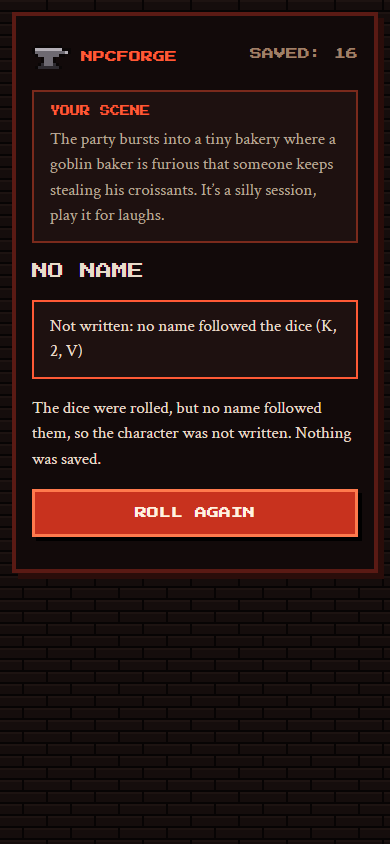
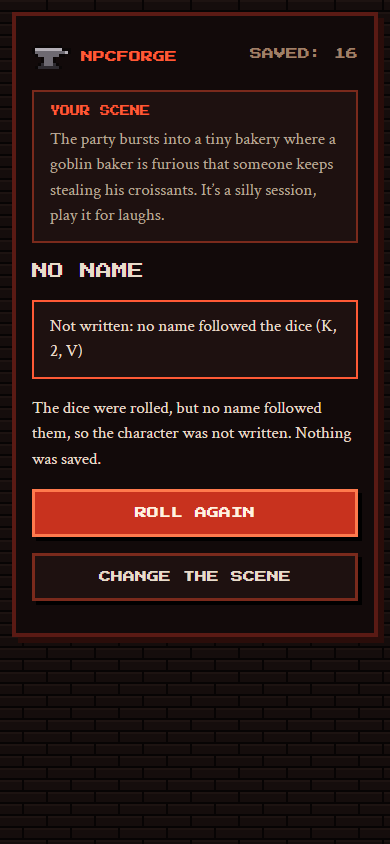
fix(web): a state with no drawing fails tsc, and the data test holds each sheet whole (epic 12, PR 3)
Review showed a new `ForgeState` case with no `case` in the switch passed
`tsc` and drew a blank page. `draw` and `SavedPage` now return
`ReactElement`, so a missing case is a compile error.

The data test passed with a sheet's first lines cut off. It now anchors
the sheet's start in the run file and ties it to the name the run gave.

The no-name screen gains CHANGE THE SCENE, and the confirmation says
where its buttons are.

Changed region(s): [[0.0308, 0.6469, 0.9846, 0.7701]]

diff --git a/NpcForge.Web/tests/flow.spec.ts b/NpcForge.Web/tests/flow.spec.ts
@@ -12,8 +12,13 @@ const runFile = readFileSync(
 test('each made-up sheet is the bakery run file, byte for byte', () => {
   expect(bakeryCharacters).toHaveLength(3);
   for (const { name, sheet } of bakeryCharacters) {
-    // Whole lines, from the sheet's first heading to the line before the console's keep question.
-    expect(runFile.includes(`\n${sheet}\nKeep this character?`), `${name}'s sheet is in the run file`).toBe(true);
+    // The whole sheet: from the line after the writer's last `[loop] ... out` trace line to the
+    // line before the console's keep question.
+    const at = runFile.indexOf(` out\n${sheet}\nKeep this character?`);
+    expect(at, `${name}'s sheet is in the run file, whole`).toBeGreaterThan(-1);
+    // The last name the run accepted before this sheet is this character's name.
+    const named = runFile.slice(runFile.lastIndexOf('[app] name ', at));
+    expect(named.startsWith(`[app] name ${name} (`), `the run named this sheet's character ${name}`).toBe(true);
   }
 });
 
@@ -111,6 +116,14 @@ test('an answer to the question leads to the confirmation', async ({ page }) => 
   await page.getByRole('button', { name: 'ANSWER' }).click();
   await expect(page.getByText('Here is the character so far. Nothing is rolled until you say yes.')).toBeVisible();
   await expectContrast(page);
+});
+
+test('after no name, change the scene puts it back in the box', async ({ page }) => {
+  await page.goto('/?state=forge-no-name');
+  const shown = await page.getByRole('region', { name: 'Your scene' }).getByRole('paragraph').innerText();
+  await page.getByRole('button', { name: 'CHANGE THE SCENE' }).click();
+  await expect(page.getByRole('textbox', { name: /^Describe the scene/ })).toHaveValue(shown);
+  await expect(page.getByRole('button', { name: 'SEND THE SCENE' })).toBeEnabled();
 });
 
 test('after no name, roll again writes a character', async ({ page }) => {

diff --git a/NpcForge.Web/src/ForgePage.tsx b/NpcForge.Web/src/ForgePage.tsx
@@ -1,4 +1,4 @@
-import { useEffect, useRef, useState, type ReactNode } from 'react';
+import { useEffect, useRef, useState, type ReactElement } from 'react';
 import {
   answer,
   rollAndWrite,
@@ -95,7 +95,9 @@ export function ForgePage({
     setState({ kind: 'saved', scene, interview, number });
   }
 
-  function draw(): ReactNode {
+  // The return type has no `undefined` in it, so a state with no case here fails tsc and cannot
+  // ship as a blank page (ADR-017, "Outcomes as values").
+  function draw(): ReactElement {
     switch (state.kind) {
       case 'describe':
       case 'turned-down':
@@ -151,6 +153,7 @@ export function ForgePage({
             <ScenePanel scene={scene} />
             <h1 className="page-title">THE BRIEF SO FAR</h1>
             <p>Here is the character so far. Nothing is rolled until you say yes.</p>
+            <p className="hint">Roll it or turn it down at the end of the brief.</p>
             <Confirmation fields={state.fields} />
             <p className="ask">Roll this character?</p>
             <div className="actions">
@@ -221,6 +224,9 @@ export function ForgePage({
             <div className="actions">
               <button className="button button-main" type="button" onClick={() => roll(scene, interview)}>
                 ROLL AGAIN
+              </button>
+              <button className="button" type="button" onClick={() => setState({ kind: 'describe', scene })}>
+                CHANGE THE SCENE
               </button>
             </div>
           </>

diff --git a/NpcForge.Web/src/SavedPage.tsx b/NpcForge.Web/src/SavedPage.tsx
@@ -1,4 +1,4 @@
-import { useEffect, useState } from 'react';
+import { useEffect, useState, type ReactElement } from 'react';
 import { listSaves, loadSave, type ListedCharacter, type SavedCharacter } from './api';
 import { Frame } from './Frame';
 import { Sheet } from './Sheet';
@@ -12,7 +12,8 @@ export type SavedState =
   | { kind: 'missing'; number: number }; // no save under this number
 
 // `number` is the one in the path, or null for the list. `saved` is the bar's count. `start` opens
-// a named state without calling the seam.
+// a named state without calling the seam. The return type has no `undefined` in it, so a state
+// with no case in the switch fails tsc.
 export function SavedPage({
   number,
   saved,
@@ -21,7 +22,7 @@ export function SavedPage({
   number: number | null;
   saved: number | null;
   start?: SavedState;
-}) {
+}): ReactElement {
   const [state, setState] = useState<SavedState>(start ?? { kind: 'loading' });
 
   useEffect(() => {

diff --git a/docs/design/epic-12-api-needs.md b/docs/design/epic-12-api-needs.md
@@ -78,6 +78,8 @@ scene back in the box.
   for as long as the page can still ask for new dice.
 - **Only the draft on the screen is ever saved.** After roll again, the page forgets the earlier
   draft.
+- **A reload loses the run.** The scene, the interview id and the draft live only in the page's
+  memory, so a reload in the middle of a run starts again at an empty scene box.
 - **A save can be sent twice.** The page has no state between the click on save and the answer, so
   a second click on a slow connection sends `save` again. Either the API treats a second save of
   one draft as the first, or the page gains a saving state.

diff --git a/docs/architecture.md b/docs/architecture.md
@@ -88,7 +88,8 @@ Each state can be opened by name, on its own path:
 looks the name up and hands the value to its page. A name the table lacks, or one opened on another
 path than its own, shows "No state named <name>". An opened state still works: from
 `forge-question` an answer leads to the confirmation, and from `forge-no-name` roll again writes a
-character.
+character. A named state calls no seam function, so `forge-saved` says "Saved as 17." under a bar
+that still counts 16.
 
 ## One run, end to end
 
